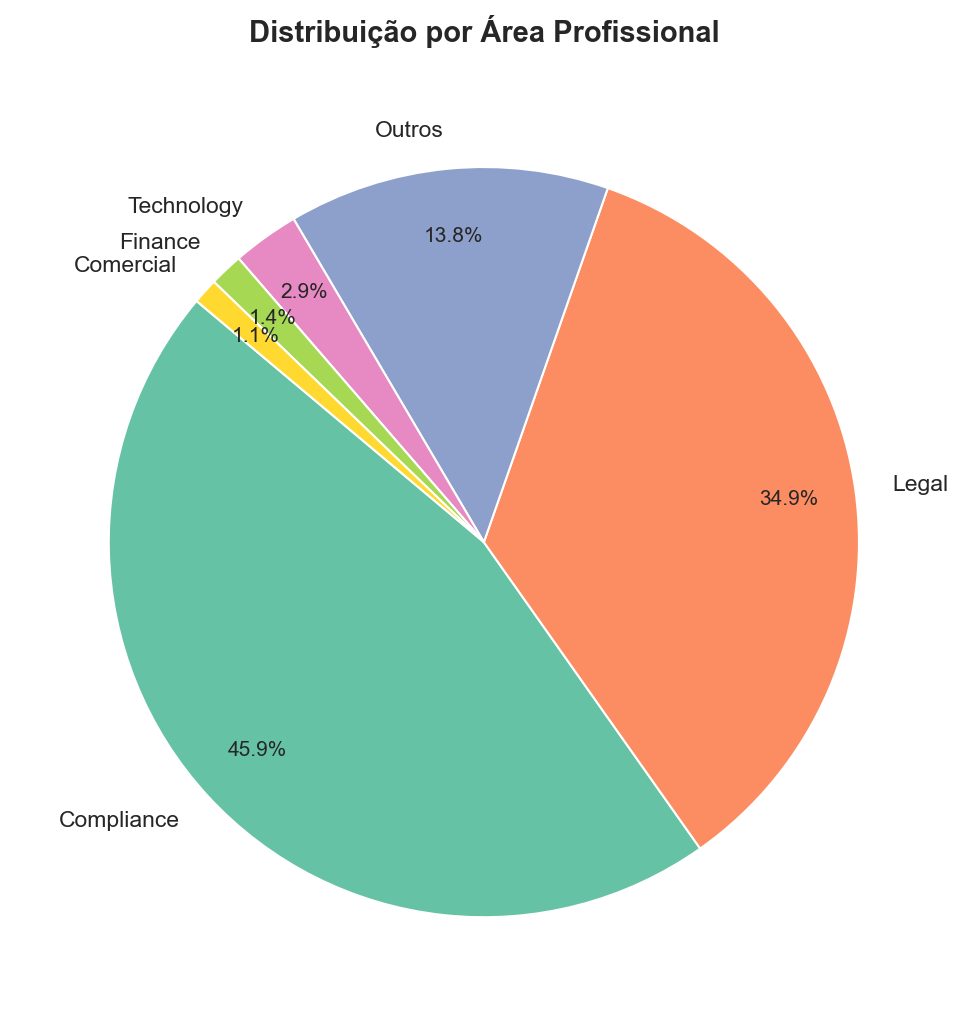
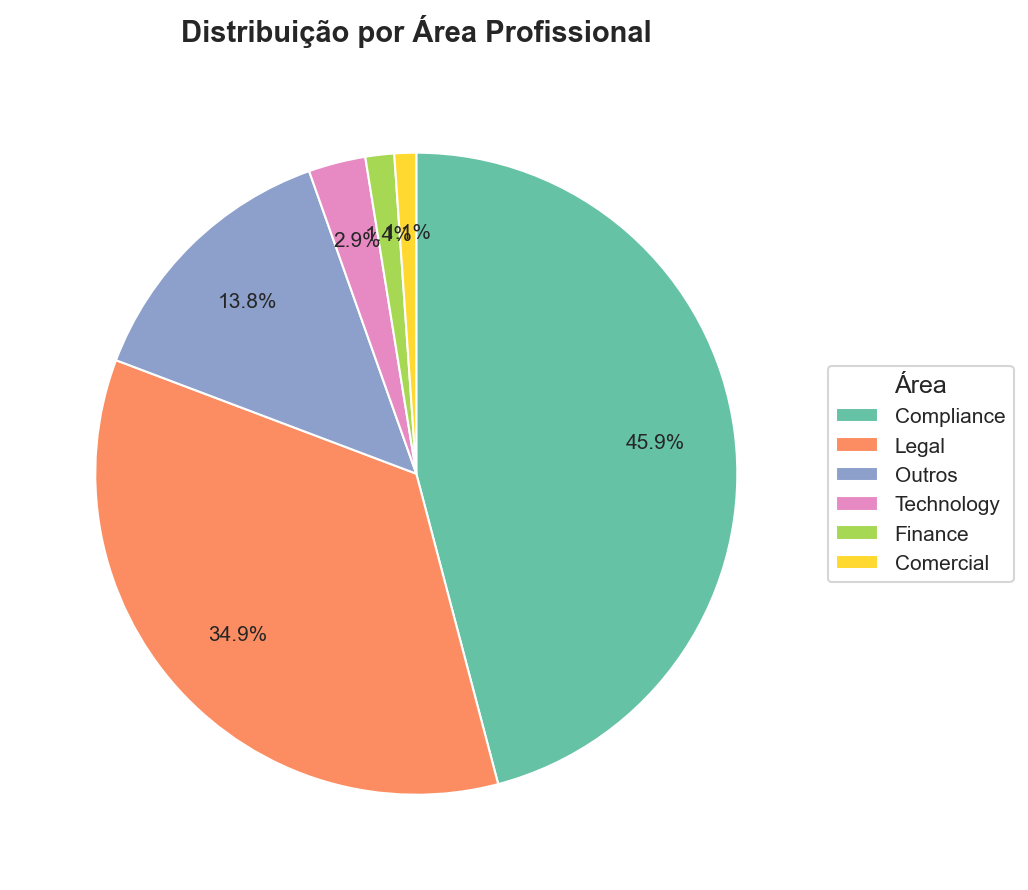
style: alinhar orientacao do grafico pizza com o Looker Studio
- startangle=90 + counterclock=False para inicio no topo sentido horario
- Labels inline substituidos por legenda lateral (evita sobreposicao nas
  fatias pequenas de Technology/Finance/Comercial)
- Layout resultante identico ao dashboard Looker Studio

diff --git a/scripts/03_visualizacoes.py b/scripts/03_visualizacoes.py
@@ -103,14 +103,23 @@ def grafico4(df):
     fig, ax = plt.subplots(figsize=(7, 7))
     wedges, texts, autotexts = ax.pie(
         por_area.values,
-        labels=por_area.index,
+        labels=None,
         autopct="%1.1f%%",
         colors=colors,
-        startangle=140,
-        pctdistance=0.82,
+        startangle=90,
+        counterclock=False,
+        pctdistance=0.75,
     )
     for text in autotexts:
         text.set_fontsize(10)
+    ax.legend(
+        wedges,
+        por_area.index,
+        title="Área",
+        loc="center left",
+        bbox_to_anchor=(1, 0, 0.5, 1),
+        fontsize=10,
+    )
     ax.set_title("Distribuição por Área Profissional", fontsize=14, fontweight="bold", pad=15)
     plt.tight_layout()
     path = f"{GRAFICOS_DIR}/grafico4_areas.png"